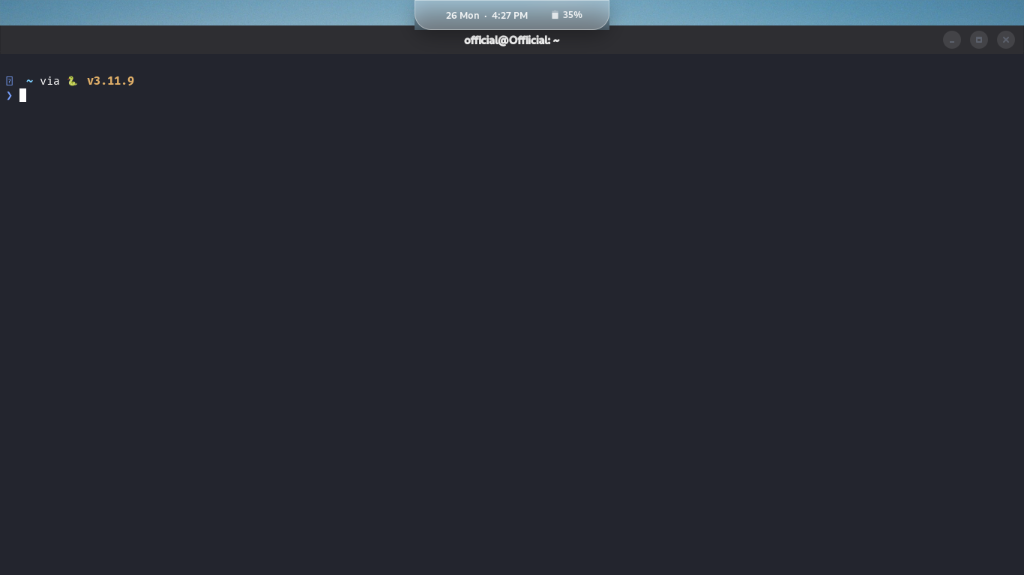
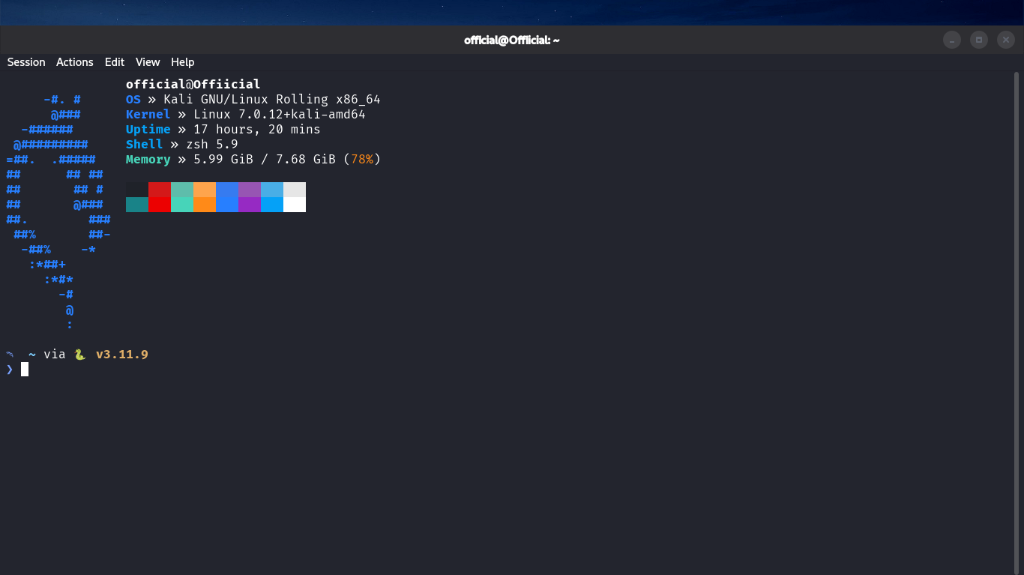
assets: update showcase screenshots with Launchpad, Hero desktop, and Fastfetch Terminal

diff --git a/README.md b/README.md
@@ -22,7 +22,7 @@
 **BlackIce** transforms Kali Linux into a hyper-polished, fluid, frosted glass workstation inspired by macOS design and tactical cyber security workflows. It integrates an intelligent auto-hiding **Dynamic Island**, a floating **Frosted Glass Dock**, a curated **3-Page Tactical Pentest App Grid**, and a high-contrast **Obsidian Terminal Suite**.
 
 <p align="center">
-  <img src="assets/dynamic_island_tray.png" alt="BlackIce Dynamic Island Tray" width="49%" style="border-radius: 8px;" />
+  <img src="assets/blackice_launchpad.png" alt="BlackIce Frosted Launchpad & Pentest Grid" width="49%" style="border-radius: 8px;" />
   <img src="assets/obsidian_terminal.png" alt="BlackIce Obsidian Terminal" width="49%" style="border-radius: 8px;" />
 </p>
 
